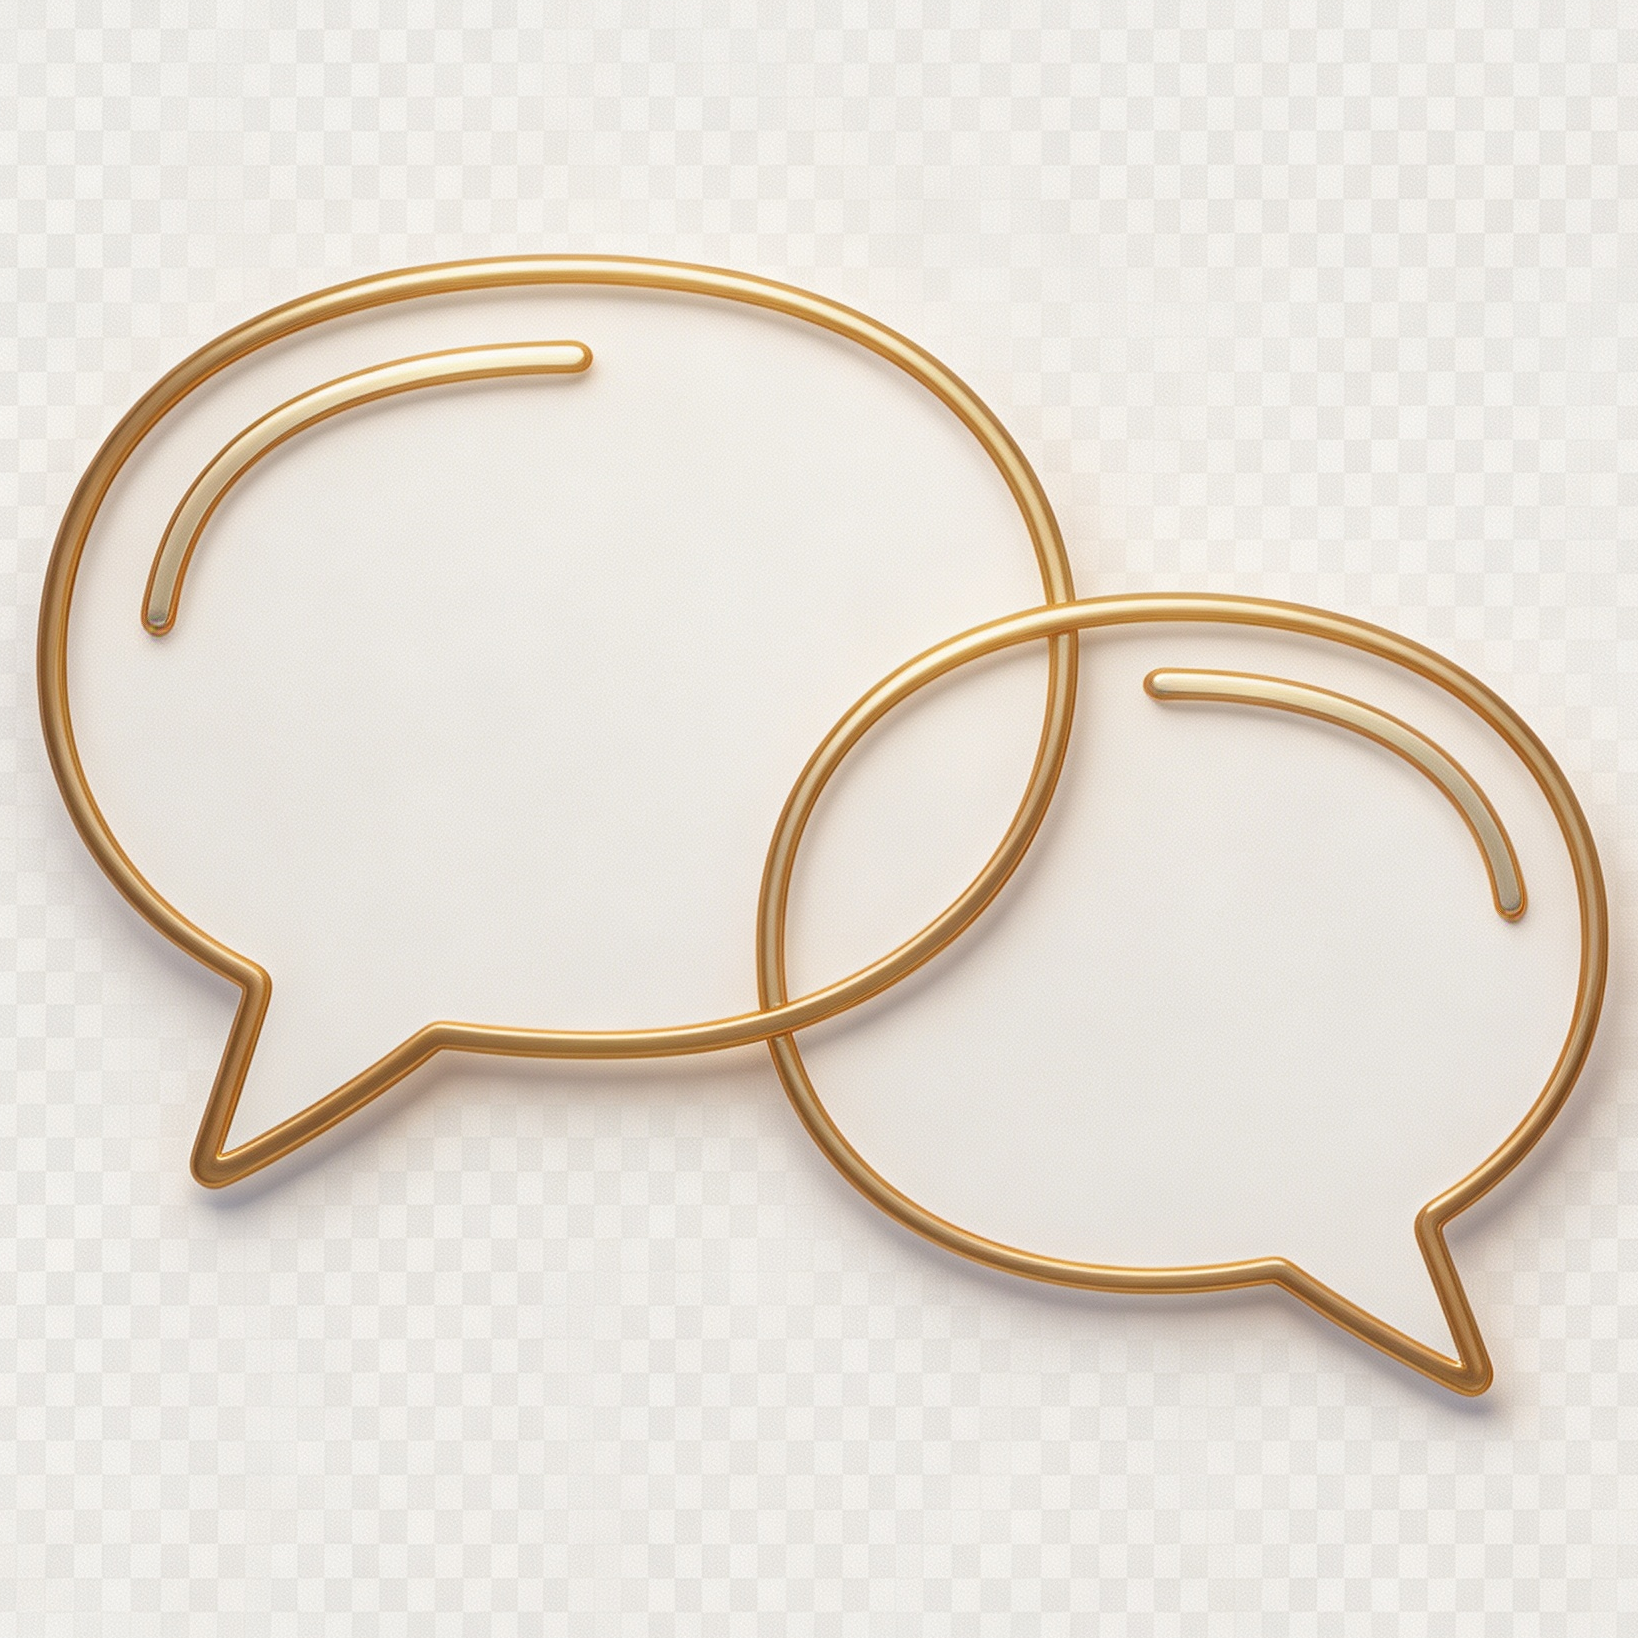
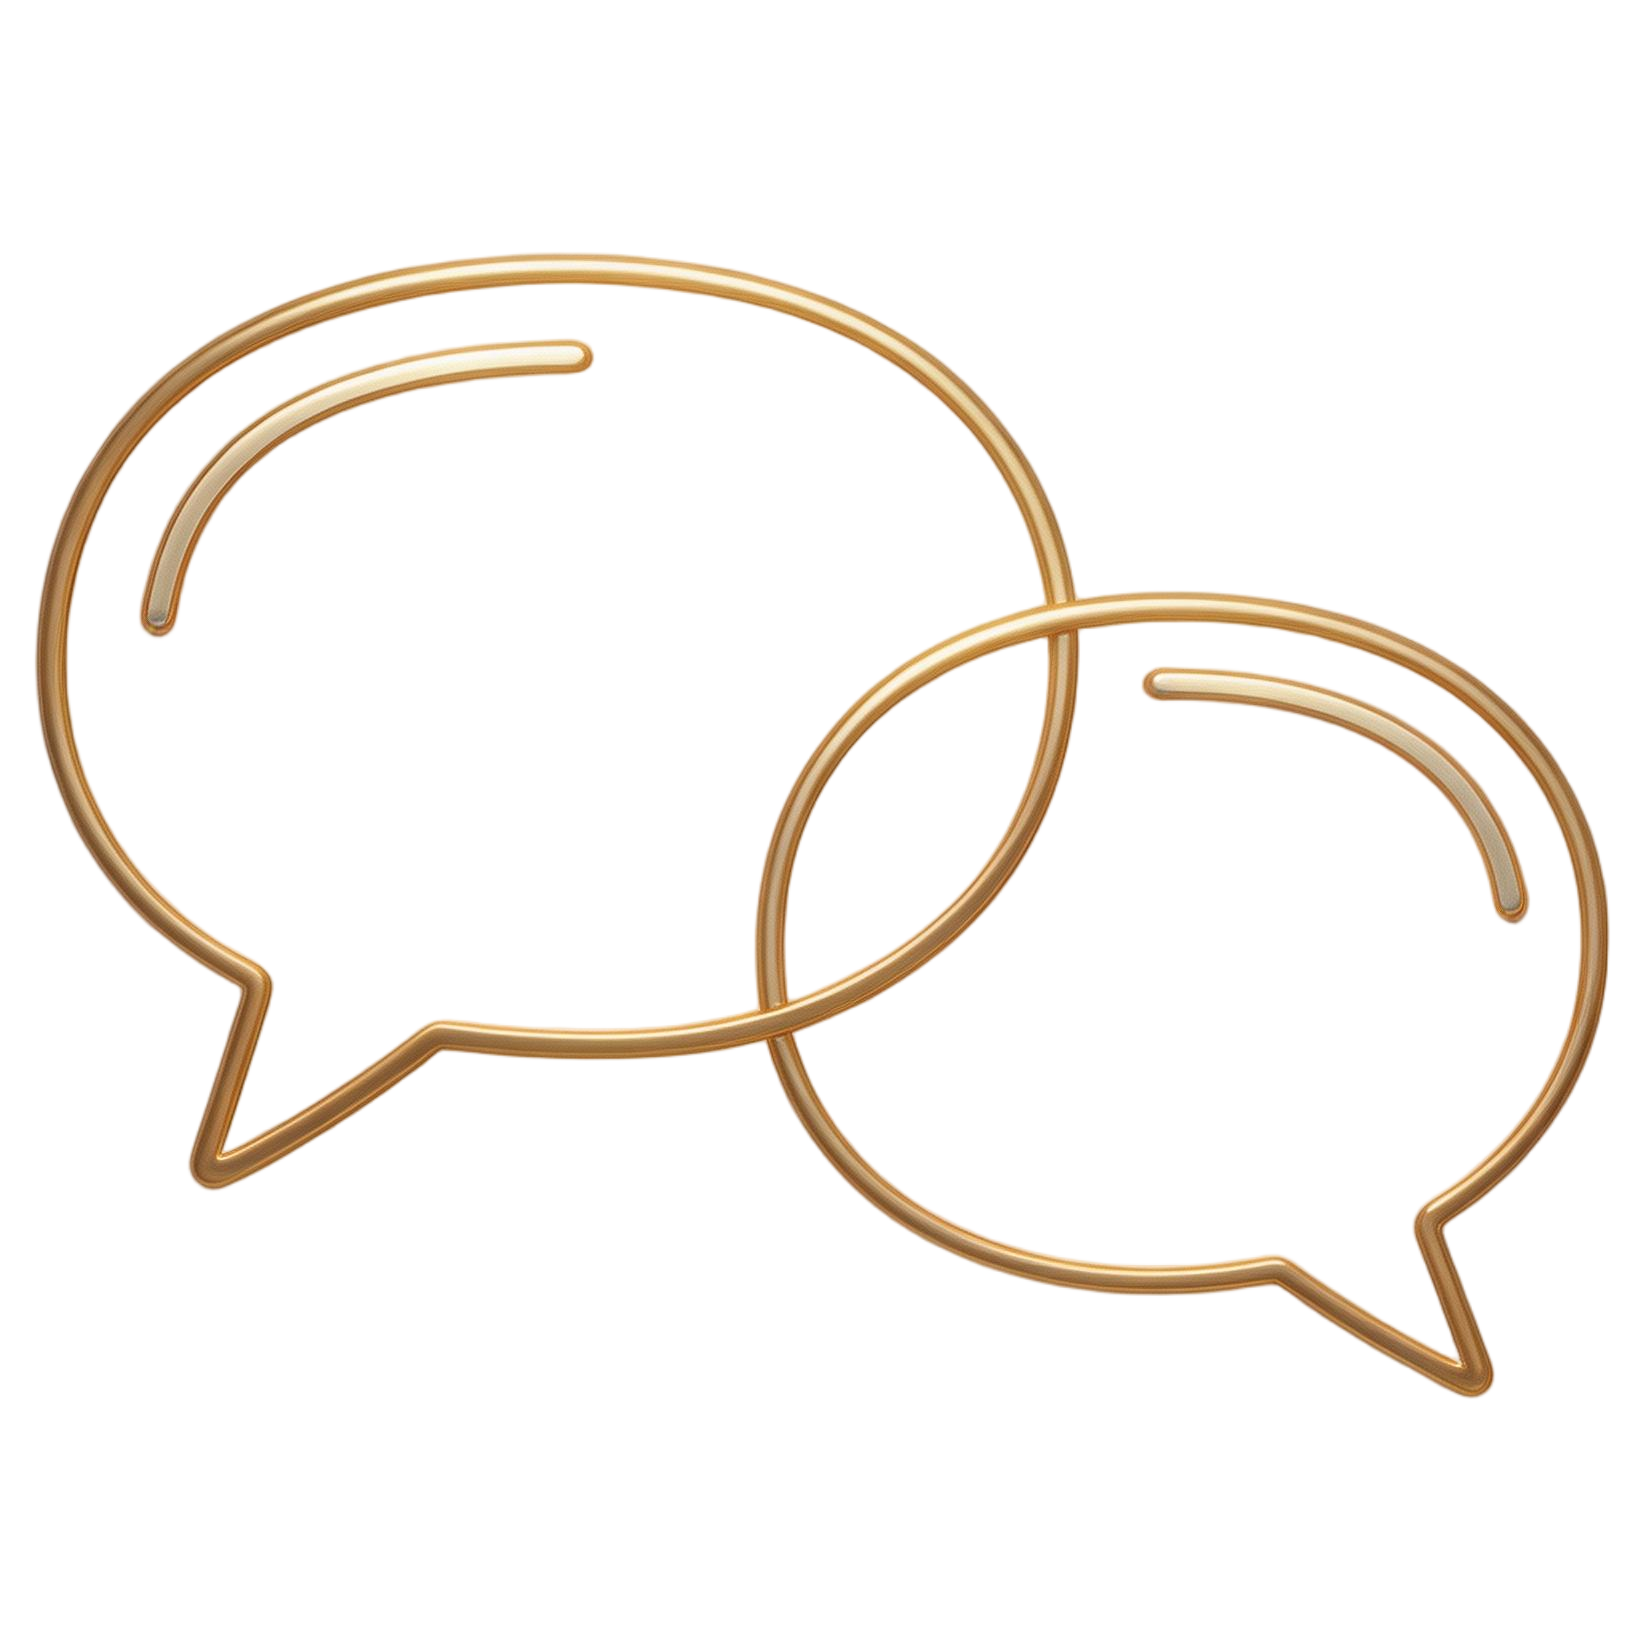
修复滚动+更新透明背景图标+去除mix-blend-mode

diff --git a/src/style.css b/src/style.css
@@ -296,7 +296,7 @@ textarea:focus{outline:none;border-color:var(--gold);background:#fff;box-shadow:
 .space-subtitle{font-size:16px;color:#C8A882;margin-bottom:18px}
 .space-desc{font-size:15px;color:#A89078;line-height:1.8}
 .space-card{background:rgba(255,255,255,.05);backdrop-filter:blur(8px);-webkit-backdrop-filter:blur(8px);border-radius:14px;padding:26px 24px;margin-bottom:16px;text-align:left;border:1px solid rgba(240,200,150,.1)}
-.space-card-icon{width:32px;height:32px;margin-bottom:14px;mix-blend-mode:lighten;opacity:.85}
+.space-card-icon{width:32px;height:32px;margin-bottom:14px}
 .space-card h2{font-size:17px;color:#EDC794;margin-bottom:12px;font-weight:500}
 .space-card p{font-size:14px;color:#B89878;line-height:1.75}
 .space-steps{display:flex;flex-direction:column;gap:12px}

diff --git a/src/main.js b/src/main.js
@@ -95,6 +95,7 @@ window.goToInput = function(e) {
     intro.classList.remove('active', 'transitioning');
     document.body.style.background = '#F8F6F2';
     document.body.style.color = '#2B2B2B';
+    document.body.style.overflow = 'auto';
     var input = document.getElementById('input-screen');
     input.classList.add('active');
     window.scrollTo({ top: 0 });
@@ -790,7 +791,7 @@ window.goToSpace = function(e) {
     intro.classList.remove('active', 'transitioning');
     document.body.style.background = '#1E1B18';
     document.body.style.color = '#C4A88B';
-    document.body.style.overflow = '';
+    document.body.style.overflow = 'auto';
     document.getElementById('space-screen').classList.add('active');
     window.scrollTo({ top: 0 });
   }, 2200);
